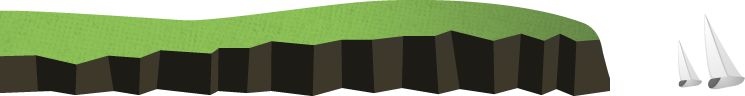
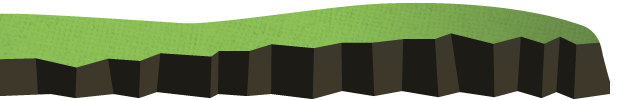
add boats to theme

diff --git a/src/documents/themes/drupalaton/css/style.css b/src/documents/themes/drupalaton/css/style.css
@@ -1,1 +1,1 @@
-/* normalize.css v1.1.1 | MIT License | git.io/normalize */article,aside,details,figcaption,figure,footer,header,hgroup,main,nav,section,summary{display:block}audio,canvas,video{display:inline-block;*display:inline;*zoom:1}audio:not([controls]){display:none;height:0}[hidden]{display:none}html{background:#fff;color:#000;font-size:100%;-webkit-text-size-adjust:100%;-ms-text-size-adjust:100%}html,button,input,select,textarea{font-family:sans-serif}body{margin:0}a:focus{outline:thin dotted}a:active,a:hover{outline:0}h1{font-size:2em;margin:0.67em 0}h2{font-size:1.5em;margin:0.83em 0}h3{font-size:1.17em;margin:1em 0}h4{font-size:1em;margin:1.33em 0}h5{font-size:0.83em;margin:1.67em 0}h6{font-size:0.67em;margin:2.33em 0}abbr[title]{border-bottom:1px dotted}b,strong{font-weight:bold}blockquote{margin:1em 40px}dfn{font-style:italic}hr{-moz-box-sizing:content-box;box-sizing:content-box;height:0}mark{background:#ff0;color:#000}p,pre{margin:1em 0}code,kbd,pre,samp{font-family:monospace,serif;_font-family:"courier new",monospace;font-size:1em}pre{white-space:pre;white-space:pre-wrap;word-wrap:break-word}q{quotes:none}q:before,q:after{content:'';content:none}small{font-size:80%}sub,sup{font-size:75%;line-height:0;position:relative;vertical-align:baseline}sup{top:-0.5em}sub{bottom:-0.25em}dl,menu,ol,ul{margin:1em 0}dd{margin:0 0 0 40px}menu,ol,ul{padding:0 0 0 40px}nav ul,nav ol{list-style:none;list-style-image:none}img{border:0;-ms-interpolation-mode:bicubic}svg:not(:root){overflow:hidden}figure{margin:0}form{margin:0}fieldset{border:1px solid silver;margin:0 2px;padding:0.35em 0.625em 0.75em}legend{border:0;padding:0;white-space:normal;*margin-left:-7px}button,input,select,textarea{font-size:100%;margin:0;vertical-align:baseline;*vertical-align:middle}button,input{line-height:normal}button,select{text-transform:none}button,html input[type="button"],input[type="reset"],input[type="submit"]{-webkit-appearance:button;cursor:pointer;*overflow:visible}button[disabled],html input[disabled]{cursor:default}input[type="checkbox"],input[type="radio"]{box-sizing:border-box;padding:0;*height:13px;*width:13px}input[type="search"]{-webkit-appearance:textfield;-moz-box-sizing:content-box;-webkit-box-sizing:content-box;box-sizing:content-box}input[type="search"]::-webkit-search-cancel-button,input[type="search"]::-webkit-search-decoration{-webkit-appearance:none}button::-moz-focus-inner,input::-moz-focus-inner{border:0;padding:0}textarea{overflow:auto;vertical-align:top}table{border-collapse:collapse;border-spacing:0}body{min-width:960px}.container_12{margin-left:auto;margin-right:auto;width:960px}.grid_1,.grid_2,.grid_3,.grid_4,.grid_5,.grid_6,.grid_7,.grid_8,.grid_9,.grid_10,.grid_11,.grid_12{display:inline;float:left;margin-left:10px;margin-right:10px}.push_1,.pull_1,.push_2,.pull_2,.push_3,.pull_3,.push_4,.pull_4,.push_5,.pull_5,.push_6,.pull_6,.push_7,.pull_7,.push_8,.pull_8,.push_9,.pull_9,.push_10,.pull_10,.push_11,.pull_11{position:relative}.alpha{margin-left:0}.omega{margin-right:0}.container_12 .grid_1{width:60px}.container_12 .grid_2{width:140px}.container_12 .grid_3{width:220px}.container_12 .grid_4{width:300px}.container_12 .grid_5{width:380px}.container_12 .grid_6{width:460px}.container_12 .grid_7{width:540px}.container_12 .grid_8{width:620px}.container_12 .grid_9{width:700px}.container_12 .grid_10{width:780px}.container_12 .grid_11{width:860px}.container_12 .grid_12{width:940px}.container_12 .prefix_1{padding-left:80px}.container_12 .prefix_2{padding-left:160px}.container_12 .prefix_3{padding-left:240px}.container_12 .prefix_4{padding-left:320px}.container_12 .prefix_5{padding-left:400px}.container_12 .prefix_6{padding-left:480px}.container_12 .prefix_7{padding-left:560px}.container_12 .prefix_8{padding-left:640px}.container_12 .prefix_9{padding-left:720px}.container_12 .prefix_10{padding-left:800px}.container_12 .prefix_11{padding-left:880px}.container_12 .suffix_1{padding-right:80px}.container_12 .suffix_2{padding-right:160px}.container_12 .suffix_3{padding-right:240px}.container_12 .suffix_4{padding-right:320px}.container_12 .suffix_5{padding-right:400px}.container_12 .suffix_6{padding-right:480px}.container_12 .suffix_7{padding-right:560px}.container_12 .suffix_8{padding-right:640px}.container_12 .suffix_9{padding-right:720px}.container_12 .suffix_10{padding-right:800px}.container_12 .suffix_11{padding-right:880px}.container_12 .push_1{left:80px}.container_12 .push_2{left:160px}.container_12 .push_3{left:240px}.container_12 .push_4{left:320px}.container_12 .push_5{left:400px}.container_12 .push_6{left:480px}.container_12 .push_7{left:560px}.container_12 .push_8{left:640px}.container_12 .push_9{left:720px}.container_12 .push_10{left:800px}.container_12 .push_11{left:880px}.container_12 .pull_1{left:-80px}.container_12 .pull_2{left:-160px}.container_12 .pull_3{left:-240px}.container_12 .pull_4{left:-320px}.container_12 .pull_5{left:-400px}.container_12 .pull_6{left:-480px}.container_12 .pull_7{left:-560px}.container_12 .pull_8{left:-640px}.container_12 .pull_9{left:-720px}.container_12 .pull_10{left:-800px}.container_12 .pull_11{left:-880px}.clear{clear:both;display:block;overflow:hidden;visibility:hidden;width:0;height:0}.clearfix:before,.clearfix:after,.container_12:before,.container_12:after{content:'.';display:block;overflow:hidden;visibility:hidden;font-size:0;line-height:0;width:0;height:0}.clearfix:after,.container_12:after{clear:both}.clearfix,.container_12{zoom:1}html{font-family:"Open Sans",Arial,Helvetica,"Nimbus Sans L",sans-serif;line-height:160%;font-size:14px}a{color:#e9590a;text-decoration:none}p{font-size:22px;line-height:140%}.navigation{height:80px;position:absolute;z-index:10;width:100%}#nav{overflow:hidden}#nav ul{overflow:hidden}#nav ul li{float:left;margin-right:15px}#nav ul li a{font-family:Oswald,Arial,Helvetica,"Nimbus Sans L",sans-serif;font-weight:bold;font-size:20px;color:#1675af;text-decoration:none;text-transform:uppercase}.landscape{background:url("../img/sky.png") repeat-x scroll 0 0 transparent;height:800px;position:relative}.hills{background:url("../img/hills.png") no-repeat scroll 0 0 transparent;display:block;height:96px;width:745px;position:absolute;top:162px}.lake{height:800px;position:absolute;top:0;width:100%;background:url("../img/water.png") repeat-x scroll 0 0 transparent}.logo{position:absolute;text-align:right;top:189px;width:100%}.logo a{display:block;margin:0 auto}.logo .logo-inner{width:960px;margin:0 auto;padding:0 20px}.info{height:400px;margin-top:15px;position:absolute;top:288px;width:100%}.info h1{color:transparent;display:block;height:100%;position:relative;text-indent:-9000em;width:960px;margin:0 auto}.info h1 span{background-repeat:no-repeat;display:block;height:100%;position:absolute;width:100%;background-image:url("../img/big_typo.svg")}.logo-link{width:100%}.logo-link .logo-link-inner{width:960px;margin:0 auto;position:relative}.logo-link .logo-link-inner a{height:74px;width:345px;position:absolute;right:0;top:190px;display:block}#content{margin-top:60px}#content h2.section-title{margin:0;font-family:Oswald,Arial,Helvetica,"Nimbus Sans L",sans-serif;font-size:70px;line-height:100%;text-transform:uppercase;color:#082637}#content h3.section-subtitle{margin:0;font-family:Oswald,Arial,Helvetica,"Nimbus Sans L",sans-serif;font-weight:100;font-size:34px;line-height:100%;text-transform:uppercase;color:#1675af}.location-area{background:#e7e7e7;border:1px solid #ccc;border-radius:4px;height:300px}.tabs{margin-bottom:40px;height:54px}.tabs h2{position:relative;color:#ffffff;font-family:Oswald,Arial,Helvetica,"Nimbus Sans L",sans-serif;font-weight:bold;display:block;text-transform:uppercase;font-size:22px;padding:14px 30px 10px 30px;text-shadow:0 -2px #000;-webkit-border-radius:6px;-moz-border-radius:6px;-ms-border-radius:6px;-o-border-radius:6px;border-radius:6px;-webkit-box-shadow:0px 6px 0px #15648c;-moz-box-shadow:0px 6px 0px #15648c;box-shadow:0px 6px 0px #15648c;background-color:#1675af;width:25%;float:left;margin:0;text-align:center;-webkit-transform:translate(0, 0);-moz-transform:translate(0, 0);transform:translate(0, 0);-webkit-transition:all 0.2s ease;-moz-transition:all 0.2s ease;-ms-transition:all 0.2s ease;-o-transition:all 0.2s ease;transition:all 0.2s ease}.tabs h2:active{-webkit-transform:translate(0, 3px);-moz-transform:translate(0, 3px);transform:translate(0, 3px)}.tabs h2 a{color:#fff}.tabs h2.middle{margin:0 20px}div.twitter{background-color:#082637;padding:60px 0}div.twitter span{display:block;font-family:Oswald,Arial,Helvetica,"Nimbus Sans L",sans-serif;color:#fff;text-transform:uppercase;line-height:100%;font-size:67px;font-weight:bold}div.twitter span.second{color:#37aae1}div.newsletter{background-color:#1675af;padding:60px 0}div.newsletter span{display:block;font-family:Oswald,Arial,Helvetica,"Nimbus Sans L",sans-serif;color:#fff;text-transform:uppercase;line-height:100%;font-size:67px;font-weight:bold}div.newsletter span.second{color:#37aae1}div.newsletter span.first{color:#082637}div.newsletter input.email{position:relative;color:#082637;background-color:#ffffff;font-family:Oswald,Arial,Helvetica,"Nimbus Sans L",sans-serif;font-weight:bold;display:block;text-transform:uppercase;font-size:22px;padding:14px 30px 10px 30px;-webkit-border-radius:6px;-moz-border-radius:6px;-ms-border-radius:6px;-o-border-radius:6px;border-radius:6px;-webkit-box-shadow:#bfbfbf 0px -6px;-moz-box-shadow:#bfbfbf 0px -6px;box-shadow:#bfbfbf 0px -6px;width:50%;float:left;margin:40px 40px 0 0;text-align:left;border:0}div.newsletter input.button{position:relative;color:#fff;background-color:#ef5825;font-family:Oswald,Arial,Helvetica,"Nimbus Sans L",sans-serif;font-weight:bold;display:block;text-transform:uppercase;font-size:22px;padding:14px 30px 10px 30px;text-shadow:0 -2px #000;-webkit-border-radius:6px;-moz-border-radius:6px;-ms-border-radius:6px;-o-border-radius:6px;border-radius:6px;-webkit-box-shadow:#b2411b 0px -6px;-moz-box-shadow:#b2411b 0px -6px;box-shadow:#b2411b 0px -6px;width:25%;float:left;margin:40px 0 0 0;text-align:center;border:0}.partner-link{background:#fff;border:1px solid #ccc;box-shadow:0 2px 2px 0 rgba(0,0,0,0.15)}.sponsor-link:hover,.sponsor-link:focus,.partner-link:hover,.partner-link:focus{border-color:#f0a303}.location{margin-bottom:20px}@media all and (min-width: 960px){#nav{width:960px;margin:0 auto}}@media all and (max-width: 599px){body{max-width:599px;min-width:100px}.container_12{width:100%;max-width:599px}.landscape{height:574px}.landscape .hills{width:100%;background-position:-392px 0}.landscape .logo{top:20px;right:0}.landscape .logo .logo-inner{width:100%;max-width:599px;padding:0}.landscape .logo .logo-inner img{margin:0 20px 0 0;width:280px}.landscape .info{height:262px}.landscape .info h1{width:100%;max-width:500px}.landscape .info h1 span{background-size:485px auto}.landscape .lake{height:574px}.landscape .logo-link-inner{width:100%;max-width:599px}.landscape .logo-link-inner a{right:17px;top:4px}.tabs{height:auto}.tabs h2{float:none;width:80%;margin:0 0 0 25px}.tabs h2.middle{margin:20px 0 20px 25px}#content .wrapper{padding:0 20px}.twitter span,.newsletter form{padding:0 20px}#nav ul li{float:none}.navigation{height:auto;width:50%}}@media all and (max-width: 1300px){.hills{background-position:-320px 0}}
+/* normalize.css v1.1.1 | MIT License | git.io/normalize */article,aside,details,figcaption,figure,footer,header,hgroup,main,nav,section,summary{display:block}audio,canvas,video{display:inline-block;*display:inline;*zoom:1}audio:not([controls]){display:none;height:0}[hidden]{display:none}html{background:#fff;color:#000;font-size:100%;-webkit-text-size-adjust:100%;-ms-text-size-adjust:100%}html,button,input,select,textarea{font-family:sans-serif}body{margin:0}a:focus{outline:thin dotted}a:active,a:hover{outline:0}h1{font-size:2em;margin:0.67em 0}h2{font-size:1.5em;margin:0.83em 0}h3{font-size:1.17em;margin:1em 0}h4{font-size:1em;margin:1.33em 0}h5{font-size:0.83em;margin:1.67em 0}h6{font-size:0.67em;margin:2.33em 0}abbr[title]{border-bottom:1px dotted}b,strong{font-weight:bold}blockquote{margin:1em 40px}dfn{font-style:italic}hr{-moz-box-sizing:content-box;box-sizing:content-box;height:0}mark{background:#ff0;color:#000}p,pre{margin:1em 0}code,kbd,pre,samp{font-family:monospace,serif;_font-family:"courier new",monospace;font-size:1em}pre{white-space:pre;white-space:pre-wrap;word-wrap:break-word}q{quotes:none}q:before,q:after{content:'';content:none}small{font-size:80%}sub,sup{font-size:75%;line-height:0;position:relative;vertical-align:baseline}sup{top:-0.5em}sub{bottom:-0.25em}dl,menu,ol,ul{margin:1em 0}dd{margin:0 0 0 40px}menu,ol,ul{padding:0 0 0 40px}nav ul,nav ol{list-style:none;list-style-image:none}img{border:0;-ms-interpolation-mode:bicubic}svg:not(:root){overflow:hidden}figure{margin:0}form{margin:0}fieldset{border:1px solid silver;margin:0 2px;padding:0.35em 0.625em 0.75em}legend{border:0;padding:0;white-space:normal;*margin-left:-7px}button,input,select,textarea{font-size:100%;margin:0;vertical-align:baseline;*vertical-align:middle}button,input{line-height:normal}button,select{text-transform:none}button,html input[type="button"],input[type="reset"],input[type="submit"]{-webkit-appearance:button;cursor:pointer;*overflow:visible}button[disabled],html input[disabled]{cursor:default}input[type="checkbox"],input[type="radio"]{box-sizing:border-box;padding:0;*height:13px;*width:13px}input[type="search"]{-webkit-appearance:textfield;-moz-box-sizing:content-box;-webkit-box-sizing:content-box;box-sizing:content-box}input[type="search"]::-webkit-search-cancel-button,input[type="search"]::-webkit-search-decoration{-webkit-appearance:none}button::-moz-focus-inner,input::-moz-focus-inner{border:0;padding:0}textarea{overflow:auto;vertical-align:top}table{border-collapse:collapse;border-spacing:0}body{min-width:960px}.container_12{margin-left:auto;margin-right:auto;width:960px}.grid_1,.grid_2,.grid_3,.grid_4,.grid_5,.grid_6,.grid_7,.grid_8,.grid_9,.grid_10,.grid_11,.grid_12{display:inline;float:left;margin-left:10px;margin-right:10px}.push_1,.pull_1,.push_2,.pull_2,.push_3,.pull_3,.push_4,.pull_4,.push_5,.pull_5,.push_6,.pull_6,.push_7,.pull_7,.push_8,.pull_8,.push_9,.pull_9,.push_10,.pull_10,.push_11,.pull_11{position:relative}.alpha{margin-left:0}.omega{margin-right:0}.container_12 .grid_1{width:60px}.container_12 .grid_2{width:140px}.container_12 .grid_3{width:220px}.container_12 .grid_4{width:300px}.container_12 .grid_5{width:380px}.container_12 .grid_6{width:460px}.container_12 .grid_7{width:540px}.container_12 .grid_8{width:620px}.container_12 .grid_9{width:700px}.container_12 .grid_10{width:780px}.container_12 .grid_11{width:860px}.container_12 .grid_12{width:940px}.container_12 .prefix_1{padding-left:80px}.container_12 .prefix_2{padding-left:160px}.container_12 .prefix_3{padding-left:240px}.container_12 .prefix_4{padding-left:320px}.container_12 .prefix_5{padding-left:400px}.container_12 .prefix_6{padding-left:480px}.container_12 .prefix_7{padding-left:560px}.container_12 .prefix_8{padding-left:640px}.container_12 .prefix_9{padding-left:720px}.container_12 .prefix_10{padding-left:800px}.container_12 .prefix_11{padding-left:880px}.container_12 .suffix_1{padding-right:80px}.container_12 .suffix_2{padding-right:160px}.container_12 .suffix_3{padding-right:240px}.container_12 .suffix_4{padding-right:320px}.container_12 .suffix_5{padding-right:400px}.container_12 .suffix_6{padding-right:480px}.container_12 .suffix_7{padding-right:560px}.container_12 .suffix_8{padding-right:640px}.container_12 .suffix_9{padding-right:720px}.container_12 .suffix_10{padding-right:800px}.container_12 .suffix_11{padding-right:880px}.container_12 .push_1{left:80px}.container_12 .push_2{left:160px}.container_12 .push_3{left:240px}.container_12 .push_4{left:320px}.container_12 .push_5{left:400px}.container_12 .push_6{left:480px}.container_12 .push_7{left:560px}.container_12 .push_8{left:640px}.container_12 .push_9{left:720px}.container_12 .push_10{left:800px}.container_12 .push_11{left:880px}.container_12 .pull_1{left:-80px}.container_12 .pull_2{left:-160px}.container_12 .pull_3{left:-240px}.container_12 .pull_4{left:-320px}.container_12 .pull_5{left:-400px}.container_12 .pull_6{left:-480px}.container_12 .pull_7{left:-560px}.container_12 .pull_8{left:-640px}.container_12 .pull_9{left:-720px}.container_12 .pull_10{left:-800px}.container_12 .pull_11{left:-880px}.clear{clear:both;display:block;overflow:hidden;visibility:hidden;width:0;height:0}.clearfix:before,.clearfix:after,.container_12:before,.container_12:after{content:'.';display:block;overflow:hidden;visibility:hidden;font-size:0;line-height:0;width:0;height:0}.clearfix:after,.container_12:after{clear:both}.clearfix,.container_12{zoom:1}html{font-family:"Open Sans",Arial,Helvetica,"Nimbus Sans L",sans-serif;line-height:160%;font-size:14px}a{color:#e9590a;text-decoration:none}p{font-size:22px;line-height:140%}.navigation{height:80px;position:absolute;z-index:10;width:100%}#nav{overflow:hidden}#nav ul{overflow:hidden}#nav ul li{float:left;margin-right:15px}#nav ul li a{font-family:Oswald,Arial,Helvetica,"Nimbus Sans L",sans-serif;font-weight:bold;font-size:20px;color:#1675af;text-decoration:none;text-transform:uppercase}.landscape{background:url("../img/sky.png") repeat-x scroll 0 0 transparent;height:800px;position:relative}.hills{background:url("../img/hills.png") no-repeat scroll 0 0 transparent;display:block;height:96px;width:745px;position:absolute;top:162px}.boats{width:100%;position:relative;top:162px}.boats #smallboat{background:url("../img/boat_small.svg") no-repeat scroll 0 0 transparent;height:60px;width:30px}.boats .big{background:url("../img/boat_big.svg") no-repeat scroll 0 0 transparent}.lake{height:800px;position:absolute;top:0;width:100%;background:url("../img/water.png") repeat-x scroll 0 0 transparent}.logo{position:absolute;text-align:right;top:189px;width:100%}.logo a{display:block;margin:0 auto}.logo .logo-inner{width:960px;margin:0 auto;padding:0 20px}.info{height:400px;margin-top:15px;position:absolute;top:288px;width:100%}.info h1{color:transparent;display:block;height:100%;position:relative;text-indent:-9000em;width:960px;margin:0 auto}.info h1 span{background-repeat:no-repeat;display:block;height:100%;position:absolute;width:100%;background-image:url("../img/big_typo.svg")}.logo-link{width:100%}.logo-link .logo-link-inner{width:960px;margin:0 auto;position:relative}.logo-link .logo-link-inner a{height:74px;width:345px;position:absolute;right:0;top:190px;display:block}#content{margin-top:60px}#content h2.section-title{margin:0;font-family:Oswald,Arial,Helvetica,"Nimbus Sans L",sans-serif;font-size:70px;line-height:100%;text-transform:uppercase;color:#082637}#content h3.section-subtitle{margin:0;font-family:Oswald,Arial,Helvetica,"Nimbus Sans L",sans-serif;font-weight:100;font-size:34px;line-height:100%;text-transform:uppercase;color:#1675af}.location-area{background:#e7e7e7;border:1px solid #ccc;border-radius:4px;height:300px}.tabs{margin-bottom:40px;height:54px}.tabs h2{position:relative;color:#ffffff;font-family:Oswald,Arial,Helvetica,"Nimbus Sans L",sans-serif;font-weight:bold;display:block;text-transform:uppercase;font-size:22px;padding:14px 30px 10px 30px;text-shadow:0 -2px #000;-webkit-border-radius:6px;-moz-border-radius:6px;-ms-border-radius:6px;-o-border-radius:6px;border-radius:6px;-webkit-box-shadow:0px 6px 0px #15648c;-moz-box-shadow:0px 6px 0px #15648c;box-shadow:0px 6px 0px #15648c;background-color:#1675af;width:25%;float:left;margin:0;text-align:center;-webkit-transform:translate(0, 0);-moz-transform:translate(0, 0);transform:translate(0, 0);-webkit-transition:all 0.2s ease;-moz-transition:all 0.2s ease;-ms-transition:all 0.2s ease;-o-transition:all 0.2s ease;transition:all 0.2s ease}.tabs h2:active{-webkit-transform:translate(0, 3px);-moz-transform:translate(0, 3px);transform:translate(0, 3px)}.tabs h2 a{color:#fff}.tabs h2.middle{margin:0 20px}div.twitter{background-color:#082637;padding:60px 0}div.twitter span{display:block;font-family:Oswald,Arial,Helvetica,"Nimbus Sans L",sans-serif;color:#fff;text-transform:uppercase;line-height:100%;font-size:67px;font-weight:bold}div.twitter span.second{color:#37aae1}div.newsletter{background-color:#1675af;padding:60px 0}div.newsletter span{display:block;font-family:Oswald,Arial,Helvetica,"Nimbus Sans L",sans-serif;color:#fff;text-transform:uppercase;line-height:100%;font-size:67px;font-weight:bold}div.newsletter span.second{color:#37aae1}div.newsletter span.first{color:#082637}div.newsletter input.email{position:relative;color:#082637;background-color:#ffffff;font-family:Oswald,Arial,Helvetica,"Nimbus Sans L",sans-serif;font-weight:bold;display:block;text-transform:uppercase;font-size:22px;padding:14px 30px 10px 30px;-webkit-border-radius:6px;-moz-border-radius:6px;-ms-border-radius:6px;-o-border-radius:6px;border-radius:6px;-webkit-box-shadow:#bfbfbf 0px -6px;-moz-box-shadow:#bfbfbf 0px -6px;box-shadow:#bfbfbf 0px -6px;width:50%;float:left;margin:40px 40px 0 0;text-align:left;border:0}div.newsletter input.button{position:relative;color:#fff;background-color:#ef5825;font-family:Oswald,Arial,Helvetica,"Nimbus Sans L",sans-serif;font-weight:bold;display:block;text-transform:uppercase;font-size:22px;padding:14px 30px 10px 30px;text-shadow:0 -2px #000;-webkit-border-radius:6px;-moz-border-radius:6px;-ms-border-radius:6px;-o-border-radius:6px;border-radius:6px;-webkit-box-shadow:#b2411b 0px -6px;-moz-box-shadow:#b2411b 0px -6px;box-shadow:#b2411b 0px -6px;width:25%;float:left;margin:40px 0 0 0;text-align:center;border:0}.partner-link{background:#fff;border:1px solid #ccc;box-shadow:0 2px 2px 0 rgba(0,0,0,0.15)}.sponsor-link:hover,.sponsor-link:focus,.partner-link:hover,.partner-link:focus{border-color:#f0a303}.location{margin-bottom:20px}@media all and (min-width: 960px){#nav{width:960px;margin:0 auto}}@media all and (max-width: 599px){body{max-width:599px;min-width:100px}.container_12{width:100%;max-width:599px}.landscape{height:574px}.landscape .hills{width:100%;background-position:-392px 0}.landscape .logo{top:20px;right:0}.landscape .logo .logo-inner{width:100%;max-width:599px;padding:0}.landscape .logo .logo-inner img{margin:0 20px 0 0;width:280px}.landscape .info{height:262px}.landscape .info h1{width:100%;max-width:500px}.landscape .info h1 span{background-size:485px auto}.landscape .lake{height:574px}.landscape .logo-link-inner{width:100%;max-width:599px}.landscape .logo-link-inner a{right:17px;top:4px}.tabs{height:auto}.tabs h2{float:none;width:80%;margin:0 0 0 25px}.tabs h2.middle{margin:20px 0 20px 25px}#content .wrapper{padding:0 20px}.twitter span,.newsletter form{padding:0 20px}#nav ul li{float:none}.navigation{height:auto;width:50%}}@media all and (max-width: 1300px){.hills{background-position:-320px 0}}

diff --git a/src/documents/themes/drupalaton/sass/_drupalaton.scss b/src/documents/themes/drupalaton/sass/_drupalaton.scss
@@ -60,6 +60,20 @@ p {
   position: absolute;
   top: 162px;
 }
+.boats {
+  width: 100%;
+  position: relative;
+  top: 162px;
+  
+  #smallboat {
+    background: url("../img/boat_small.svg") no-repeat scroll 0 0 transparent;
+    height: 60px;
+    width: 30px;
+  }
+  .big {
+    background: url("../img/boat_big.svg") no-repeat scroll 0 0 transparent;
+  }
+}
 .lake {
   height: 800px;
   position: absolute;
